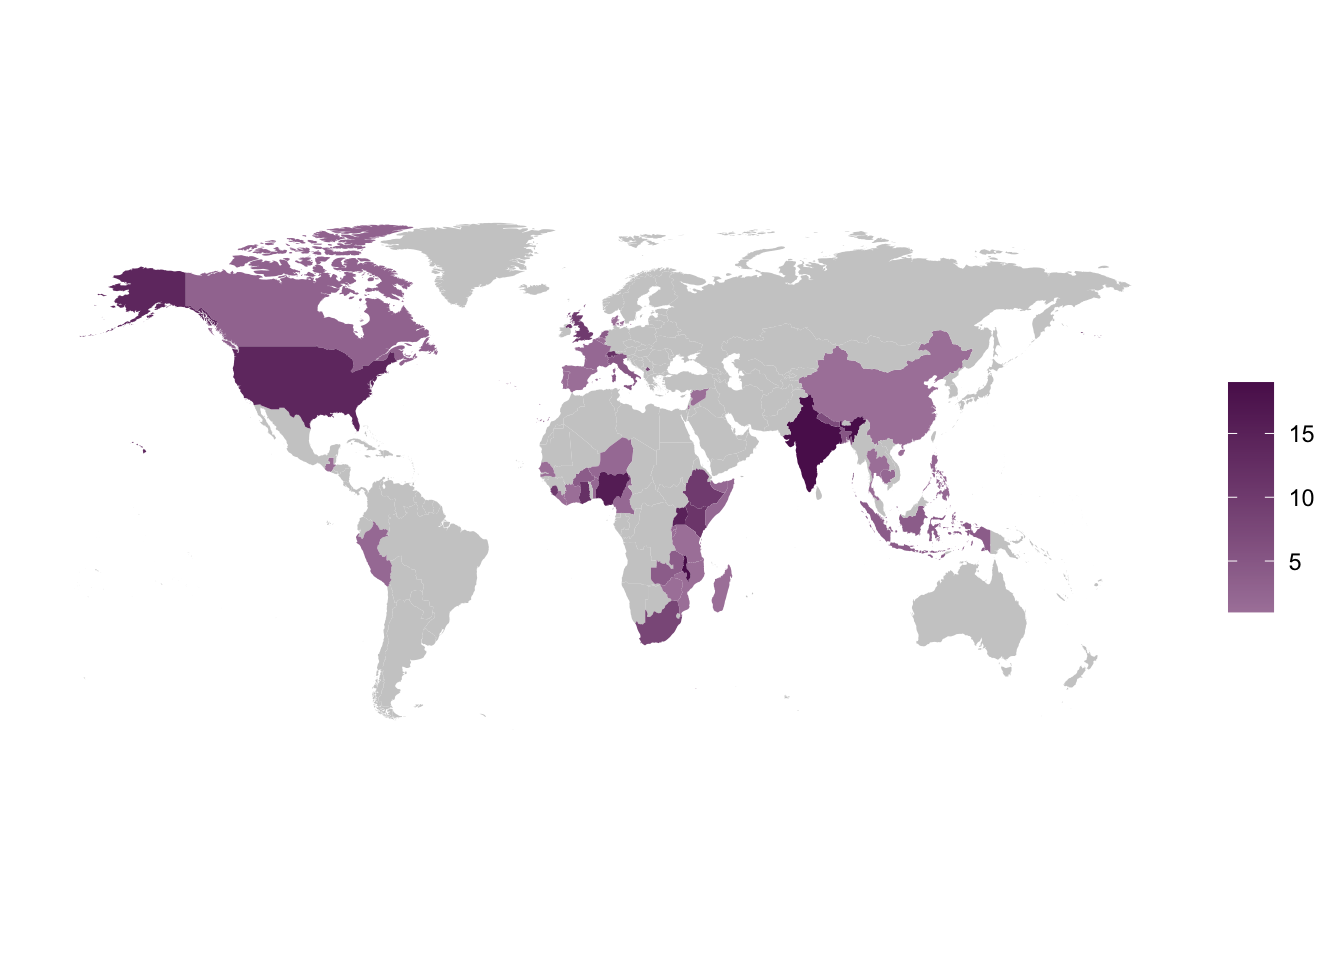
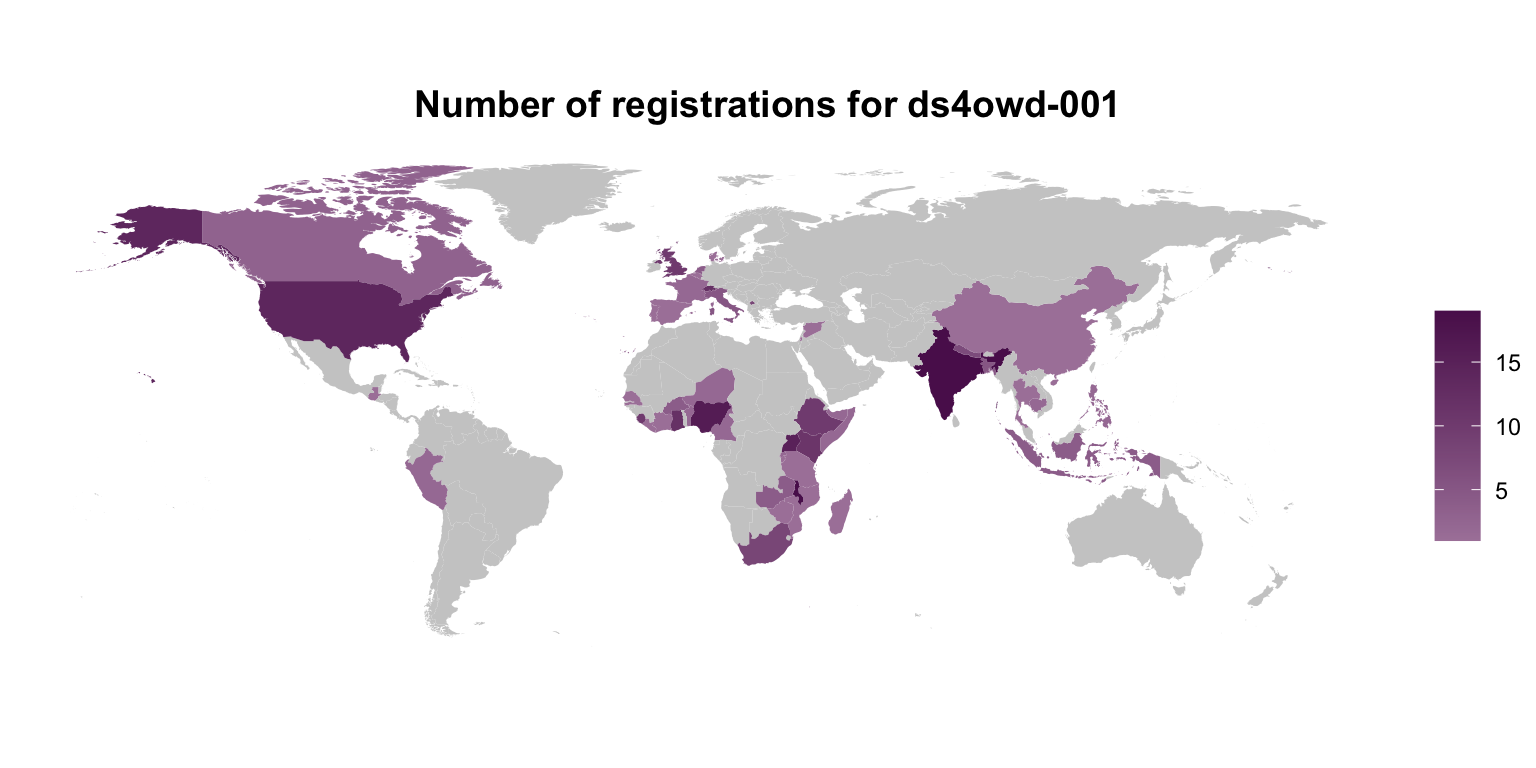
Add more plots.

diff --git a/src/data_analysis.html b/src/data_analysis.html
@@ -69,7 +69,17 @@ ul.task-list li input[type="checkbox"] {
 <div class="cell-output-display">
 <div>
 <figure class="figure">
-<p><img src="data_analysis_files/figure-html/plot-countries-1.png" class="img-fluid figure-img" width="672"></p>
+<p><img src="data_analysis_files/figure-html/plot-countries-1.png" class="img-fluid figure-img" width="768"></p>
+</figure>
+</div>
+</div>
+</div>
+<p>What is thebackground and motivation that drove WASH professionals to register for a 10-week synchronous course on top of their other responsibilities? Well, let’s find out.</p>
+<div class="cell">
+<div class="cell-output-display">
+<div>
+<figure class="figure">
+<p><img src="data_analysis_files/figure-html/plot-registration-1.png" class="img-fluid figure-img" width="672"></p>
 </figure>
 </div>
 </div>
